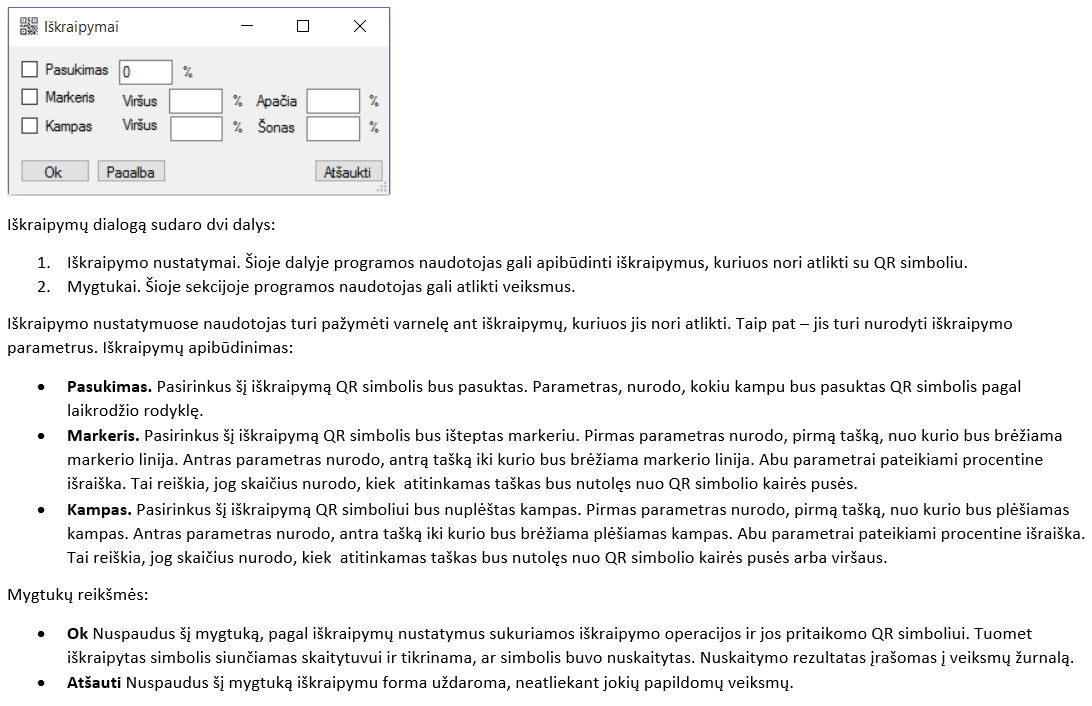
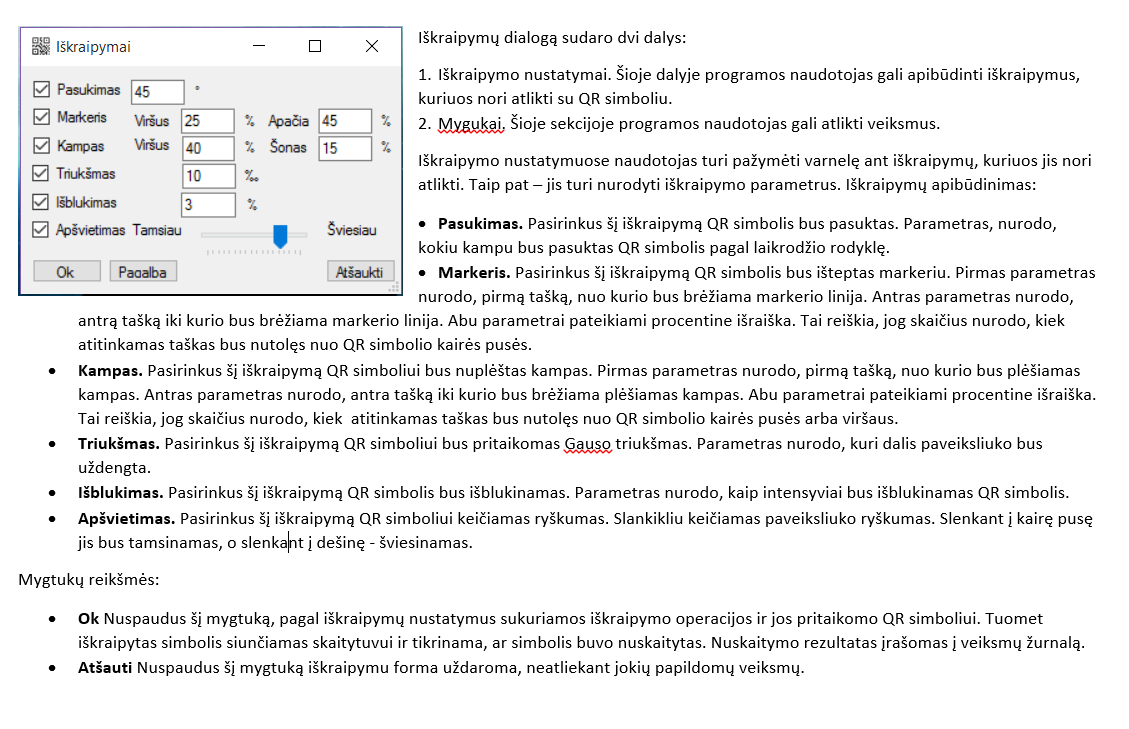
Stuff I guess..

Changed region(s): [[0.0, 0.0, 0.9963, 0.8102], [0.0, 0.8414, 0.9652, 0.9972], [0.2179, 0.0312, 0.6227, 0.0623]]

diff --git a/QRTester/TestMethodsForm.cs b/QRTester/TestMethodsForm.cs
@@ -39,6 +39,27 @@ namespace QRTester
                     RotateAngle = Int32.Parse(tbxRotateAngle.Text)
                 });
             }
+            
+            if (cbxCorner.Checked)
+            {
+                operations.Push(new CornerOperation()
+                {
+                    CheckStatus = checkStatus,
+                    Image = image,
+                    TopPositionPercent = Int32.Parse(tbxTopCornerPosition.Text),
+                    SidePositionPercent = Int32.Parse(tbxCornerSidePosition.Text)
+                });
+            }
+
+            if (cbxNoise.Checked)
+            {
+                operations.Push(new NoiseOperation()
+                {
+                    CheckStatus = checkStatus,
+                    Image = image,
+                    Intensity = Int32.Parse(tbxNoiseIntensity.Text)
+                });
+            }
 
             if (cbxBrightness.Checked)
             {
@@ -57,37 +78,6 @@ namespace QRTester
                     CheckStatus = checkStatus,
                     Image = image,
                     Intensity = Int32.Parse(tbxBlurIntensity.Text)
-                });
-            }
-
-            if (cbxNoise.Checked)
-            {
-                operations.Push(new NoiseOperation()
-                {
-                    CheckStatus = checkStatus,
-                    Image = image,
-                    Intensity = Int32.Parse(tbxNoiseIntensity.Text)
-                });
-            }
-
-            if (cbxCorner.Checked)
-            {
-                operations.Push(new CornerOperation()
-                {
-                    CheckStatus = checkStatus,
-                    Image = image,
-                    TopPositionPercent = Int32.Parse(tbxTopCornerPosition.Text),
-                    SidePositionPercent = Int32.Parse(tbxCornerSidePosition.Text)
-                });
-            }
-            if (cbxMarker.Checked)
-            {
-                operations.Push(new MarkerOperation()
-                {
-                    CheckStatus = checkStatus,
-                    Image = image,
-                    TopPositionPercent = Int32.Parse(tbxTopMarkerPosition.Text),
-                    BottomPositionPercent = Int32.Parse(tbxBottomMarkerPosition.Text)
                 });
             }
 

diff --git a/Service/ImageService.cs b/Service/ImageService.cs
@@ -362,7 +362,6 @@ namespace Service
 
 
             Bitmap clonedImage = newImage;
-            float gamma = 1.0f; // no change in gamma
 
             float adjustedBrightness = (float)brightness / 255.0f;
             // create matrix that will brighten and contrast the image
@@ -376,7 +375,6 @@ namespace Service
             var imageAttributes = new ImageAttributes();
             imageAttributes.ClearColorMatrix();
             imageAttributes.SetColorMatrix(new ColorMatrix(ptsArray), ColorMatrixFlag.Default, ColorAdjustType.Bitmap);
-            imageAttributes.SetGamma(gamma, ColorAdjustType.Bitmap);
 
             // Copy back to the original image from the cloned image
             Graphics g = Graphics.FromImage(newImage);
@@ -511,8 +509,37 @@ namespace Service
                     });
                 }
             }
+            
+            for (int i = 1; i <= 1000; i += Settings.TestPacketSettings.NoiseIntensityStep)
+            {
+                PendingImageOperations.Push(new NoiseOperation()
+                {
+                    CheckStatus = CheckImageStatus.NotCheckYet,
+                    Image = Settings.CurrentImage,
+                    Intensity = i
+                });
+            }
 
-            //TODO: Add noise operations
+            for (int i = 1; i <= 100; i += Settings.TestPacketSettings.BlurIntensityStep)
+            {
+                PendingImageOperations.Push(new BlurOperation()
+                {
+                    CheckStatus = CheckImageStatus.NotCheckYet,
+                    Image = Settings.CurrentImage,
+                    Intensity = i
+                });
+            }
+
+            for (int i = -255; i <= 255; i += Settings.TestPacketSettings.BrightnessStep)
+            {
+                PendingImageOperations.Push(new BrightnessOperation()
+                {
+                    CheckStatus = CheckImageStatus.NotCheckYet,
+                    Image = Settings.CurrentImage,
+                    Intensity = i
+                });
+            }
+
         }
 
         public static void LogLastOperation()

diff --git a/Model/Settings.cs b/Model/Settings.cs
@@ -31,7 +31,10 @@
                 CornerTopStep = 5,
                 CornerTopBoundary = 25,
                 CornerSideStep = 5,
-                CornerSideBoundary = 25
+                CornerSideBoundary = 25,
+                NoiseIntensityStep = 10,
+                BlurIntensityStep = 1,
+                BrightnessStep = 15
             };
         }
     }
@@ -47,6 +50,9 @@
         public int CornerTopBoundary { get; set; }
         public int CornerSideStep { get; set; }
         public int CornerSideBoundary { get; set; }
+        public int NoiseIntensityStep { get; set; }
+        public int BlurIntensityStep { get; set; }
+        public int BrightnessStep { get; set; }
     }
 }
 

diff --git a/QRTester/MainForm.Designer.cs b/QRTester/MainForm.Designer.cs
@@ -166,7 +166,7 @@
             this.FormBorderStyle = System.Windows.Forms.FormBorderStyle.FixedDialog;
             this.Icon = ((System.Drawing.Icon)(resources.GetObject("$this.Icon")));
             this.Name = "MainForm";
-            this.Text = "QR Tester 0.6";
+            this.Text = "QR Tester 1.0";
             this.Load += new System.EventHandler(this.MainForm_Load);
             ((System.ComponentModel.ISupportInitialize)(this.pbxQrImage)).EndInit();
             this.ResumeLayout(false);

diff --git a/QRTester/ActionLogForm.cs b/QRTester/ActionLogForm.cs
@@ -20,7 +20,7 @@ namespace QRTester
             }
             else
             {
-
+                lblDecryptedValue.Text = String.Empty;
                 pbcActionLogImage.Image = pbcActionLogImage.InitialImage;
             }
 
